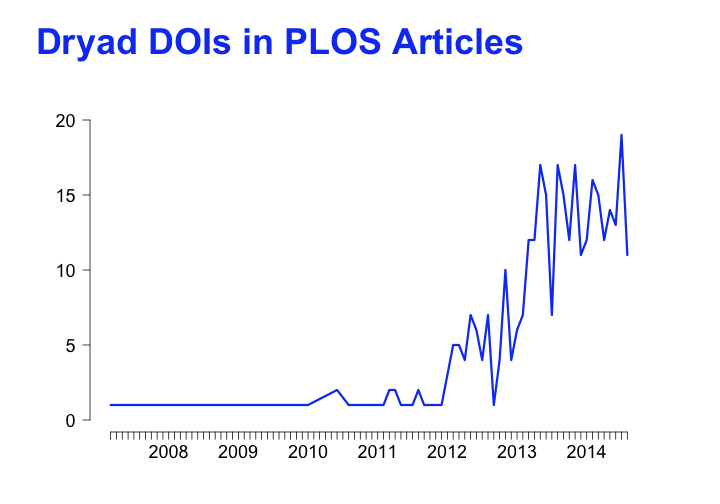
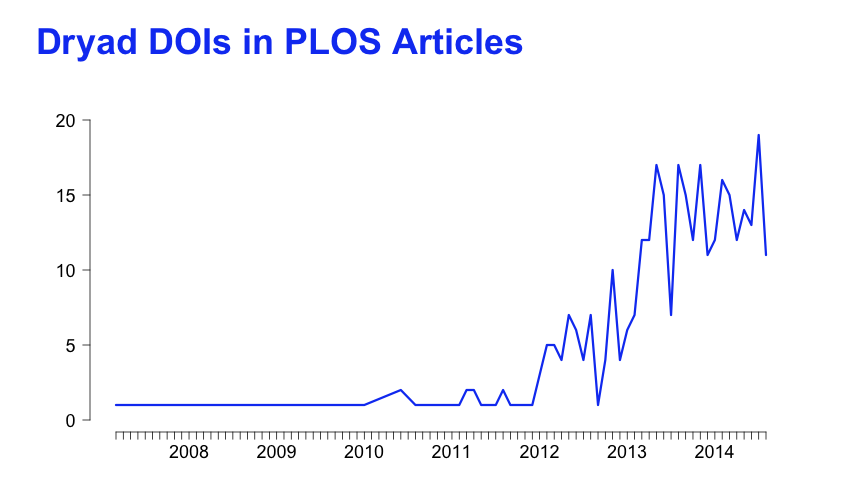
make figure wider

diff --git a/datacite/overview.md b/datacite/overview.md
@@ -58,6 +58,8 @@ alm <- subset(alm, (substr(alm$data_doi, 1, 7) == "10.5061"))
 ```
 
 
+## Dryad DOIs in PLOS Articles by Month
+
 We can look at how the number of Dryad DOIs in PLOS papers evolved over time.
 
 
@@ -85,9 +87,6 @@ opar <- par()
 
 
 
-```r
-knit("overview.Rmd", quiet = TRUE)
-```
 
 ```
 ## [1] "overview.md"
